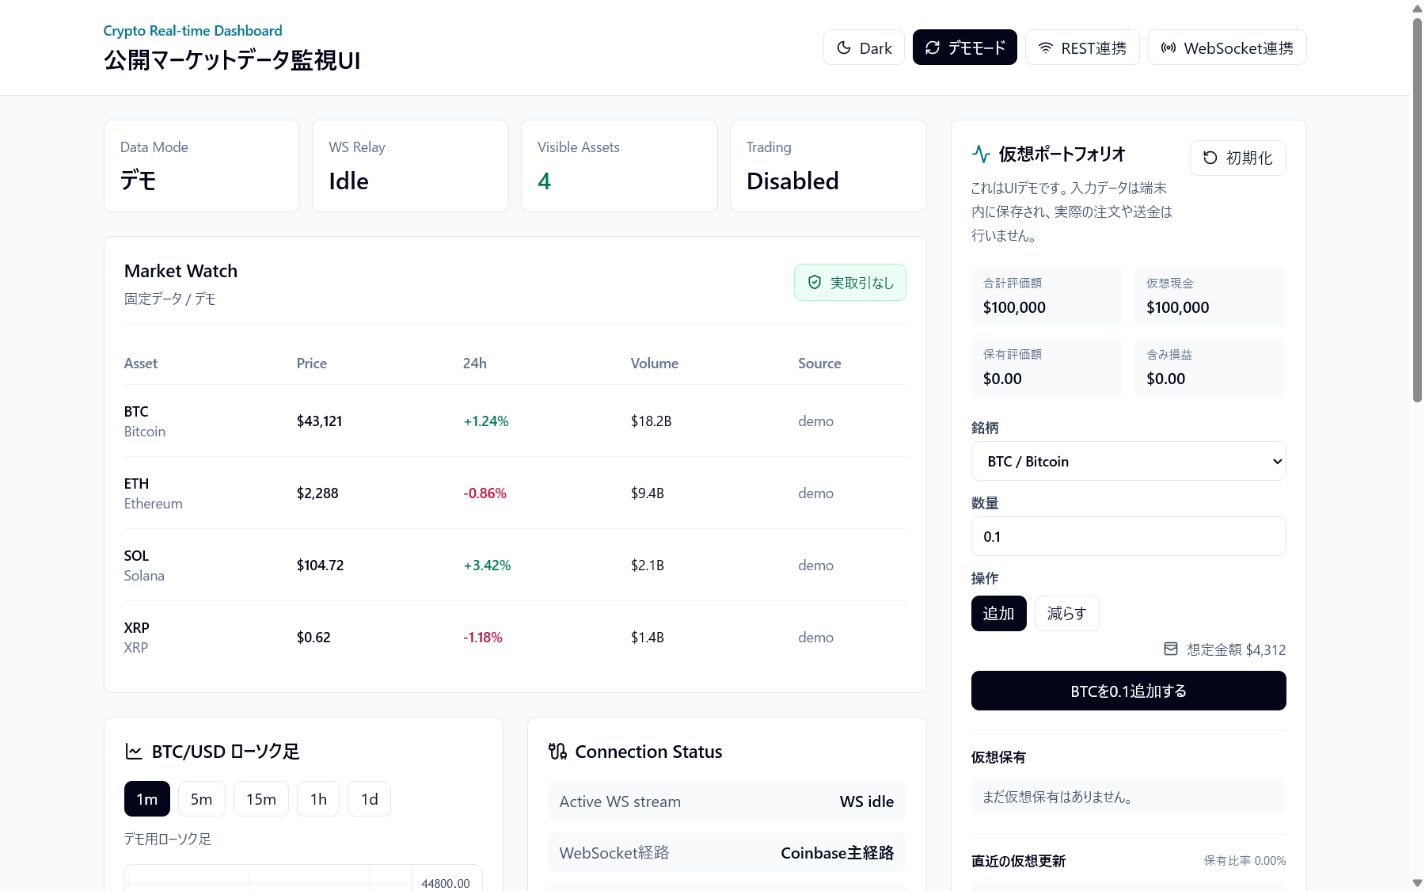
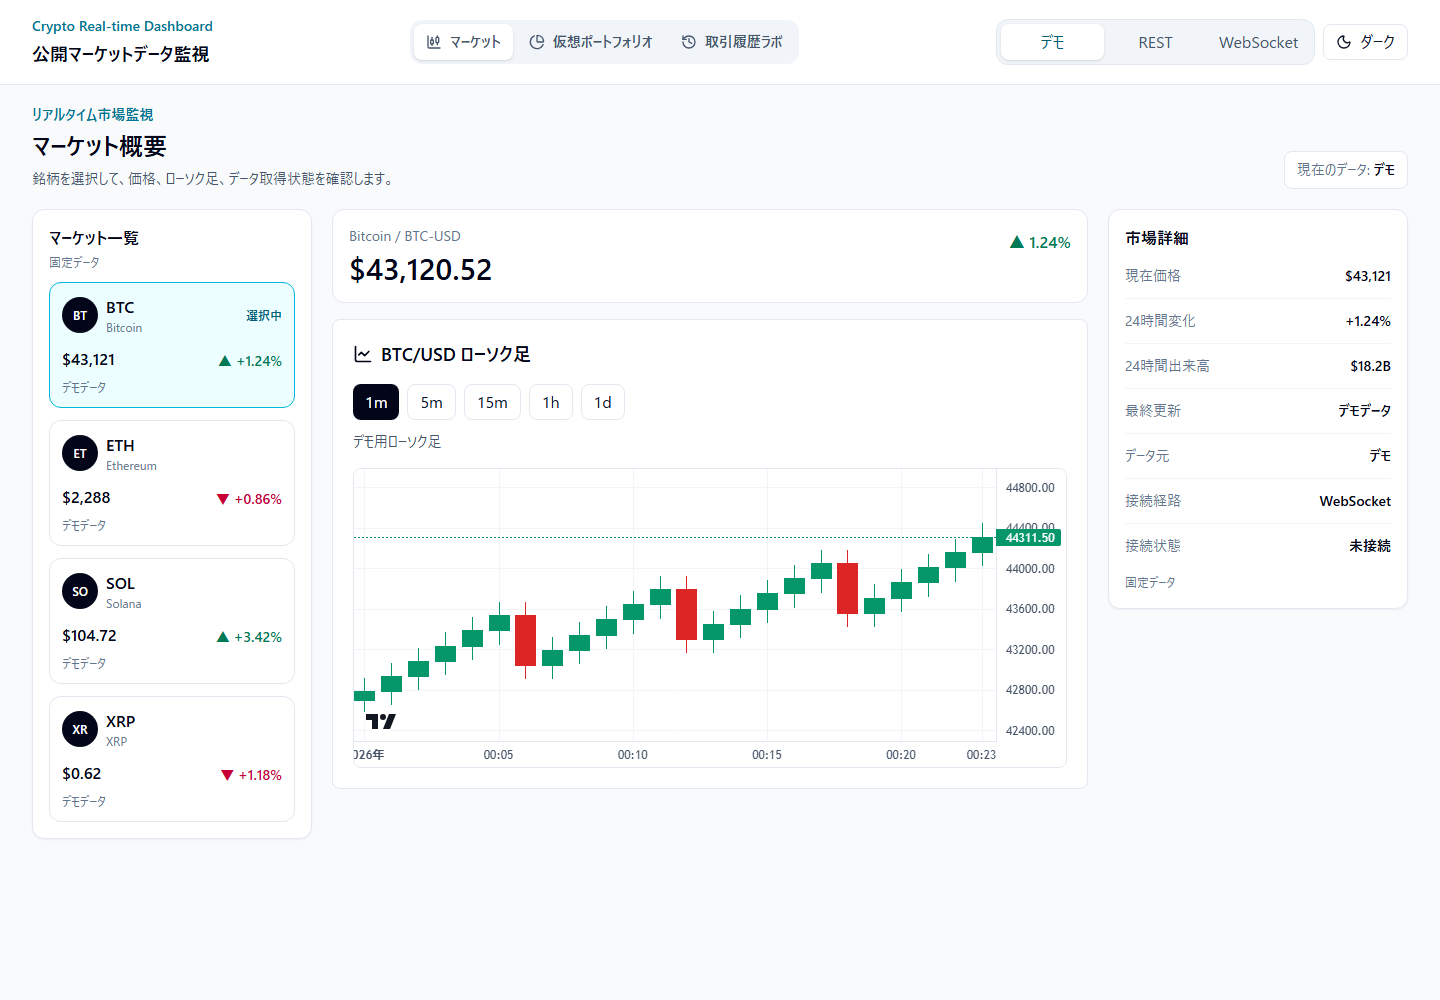
公開文書と画面画像を新しい構成へ更新する

diff --git a/README.md b/README.md
@@ -14,7 +14,7 @@ Crypto Real-time Dashboardは、暗号資産の公開マーケットデータを
 
 ## 短時間確認ガイド
 
-30秒で見る場合は、公開URLを開き、デモモードのMarket Watch、ローソク足チャート、10万件の仮想取引履歴、仮想ポートフォリオを確認してください。初期表示では外部APIを呼びません。
+30秒で見る場合は、公開URLを開き、マーケット画面で銘柄を切り替えてローソク足チャートを確認してください。次に下部ナビゲーションまたは上部ナビゲーションから、仮想ポートフォリオと取引履歴ラボへ移動できます。初期表示では外部APIを呼びません。
 
 REST連携やWebSocket連携を選ぶと、BFF Worker経由でCoinGecko、Binance、Coinbaseの公開マーケットデータへ接続します。外部APIやWebSocketは提供元とネットワーク状態に依存するため、長時間稼働やSLAは主張しません。
 
@@ -22,8 +22,8 @@ REST連携やWebSocket連携を選ぶと、BFF Worker経由でCoinGecko、Binanc
 
 ## 主な流れ
 
-- デモモードで、外部APIを呼ばずにダッシュボードを表示する。
-- Market Watchで価格、変化率、出来高、接続状態を確認する。
+- デモモードで、外部APIを呼ばずに3つの画面を表示する。
+- マーケット画面でBTC、ETH、SOL、XRPを選び、価格、変化率、出来高、データ鮮度、接続状態を確認する。
 - REST連携で、BFF Worker経由のREST API取得に切り替える。
 - WebSocket連携で、WebSocket中継による価格更新に切り替える。
 - WebSocket連携はCoinbaseを主経路とし、接続できない場合はBinanceへ切り替える。
@@ -42,15 +42,17 @@ REST連携やWebSocket連携を選ぶと、BFF Worker経由でCoinGecko、Binanc
 
 ## 画面
 
-![UI挙動紹介](docs/images/crypto-realtime-dashboard-demo.gif)
+- `/market`：マーケット一覧、選択銘柄の価格、ローソク足チャート、市場詳細を表示します。選択銘柄と時間足はURLへ保存されます。
+- `/portfolio`：仮想保有の追加と減少、評価額、含み損益を表示します。
+- `/history`：10万件の仮想取引履歴を検索、絞り込み、並べ替え、仮想スクロールで表示します。
 
-このGIFは、UIの操作導線を短く見せるための紹介素材です。外部APIの長時間稼働、呼び出し回数制限で429が出ること、投資判断の有効性を証明するものではありません。
+デスクトップではマーケット一覧、チャート、市場詳細を3列で表示します。モバイルではチャートを先に表示し、マーケット一覧を横スクロール、主要画面の移動を下部ナビゲーションで行います。
 
-![ダッシュボード概要](docs/images/dashboard-overview.png)
+![マーケット画面](docs/images/dashboard-overview.png)
 
-![仮想ポートフォリオ](docs/images/virtual-portfolio.png)
+![仮想ポートフォリオ画面](docs/images/virtual-portfolio.png)
 
-![モバイル表示](docs/images/mobile-dashboard.png)
+![モバイルのマーケット画面](docs/images/mobile-dashboard.png)
 
 ## ドキュメント
 
@@ -64,8 +66,8 @@ REST連携やWebSocket連携を選ぶと、BFF Worker経由でCoinGecko、Binanc
 
 主な検証記録は [docs/evidence/INDEX.md](docs/evidence/INDEX.md) から確認できます。
 
-- `pnpm check`: Biome、typecheck、Node.jsスクリプトテスト、Vitest計192件、buildが成功
-- Playwright E2E: デモ操作、ローソク足canvas、仮想ポートフォリオのクリック・Enter操作、localStorage制限時の操作、Coinbase疑似失敗時のBinance切り替え、375px・390px・768px表示を含む13件が成功
+- `pnpm check`: Biome、typecheck、検証スクリプトとVitestの計214件、buildが成功
+- Playwright E2E: 3画面の移動、銘柄のクリック・キーボード操作、ローソク足canvas、仮想ポートフォリオ、10万件テーブル、Coinbase疑似失敗時のBinance切り替え、375px・390px・768px表示を含む15件が成功
 - 公開環境E2E: 仮想ポートフォリオのクリック・Enter・減少・再読み込み保持、操作状態、390px表示を含む5件が成功
 - 公開環境API確認: トップ画面がHTTP 200を返し、Coinbaseローソク足の`1m`、`5m`、`15m`、`1h`、`1d`で各120本のOHLCVと時刻間隔を確認
 - Lighthouse: 2026-05-07時点の手元計測を参考値として確認

diff --git a/docs/evidence/INDEX.md b/docs/evidence/INDEX.md
@@ -20,8 +20,8 @@ Crypto Real-time Dashboardの検証記録をまとめます。各記録は、そ
 
 - 方法: `pnpm check`を実行し、Biome、TypeScript、Node.jsスクリプトテスト、Vitest、production buildを確認。
 - 対象: shared-types、BFF、Web、ローソク足取得スクリプト。
-- 結果: Biomeはshared-types 4ファイル、BFF 32ファイル、Web 71ファイルを通過。Node.jsスクリプトテスト4件、shared-types 7件、BFF 72件、Web 109件の計192件が通過し、typecheckとbuildも通過。
-- 方法: `pnpm e2e`を実行し、デモ操作、ローソク足canvas、WebSocket予備接続、375px・390px・768px、desktop表示後の390pxリサイズを確認。
+- 結果: Biomeはshared-types 4ファイル、BFF 32ファイル、Web 81ファイルを通過。Node.jsスクリプトテスト8件、shared-types 7件、BFF 72件、Web 127件の計214件が通過し、typecheckとbuildも通過。
+- 方法: `pnpm e2e`を実行し、3画面の移動、銘柄のクリック・矢印キー操作、ローソク足canvas、WebSocket予備接続、375px・390px・768px、desktop表示後の390pxリサイズを確認。
 - 対象: Playwright E2E 10件。
 - 結果: 10件すべて通過。
 - 方法: OSV-Scanner 2.4.0で`pnpm-lock.yaml`を検査。
@@ -45,7 +45,7 @@ Crypto Real-time Dashboardの検証記録をまとめます。各記録は、そ
 |---|---|---|
 | `pnpm check` | 通過 | lint、typecheck、test、build |
 | Vitest | 通過 | shared-types、BFF、Webの単体・統合テスト |
-| Playwright E2E | 13件通過 | デモ操作、ローソク足canvas、仮想ポートフォリオのクリック・Enter操作、localStorage制限時の操作、Coinbase疑似失敗時のBinance切り替え、レスポンシブ表示 |
+| Playwright E2E | 15件通過 | 3画面の移動、銘柄選択、ローソク足canvas、仮想ポートフォリオ、10万件テーブル、Coinbase疑似失敗時のBinance切り替え、レスポンシブ表示 |
 | 公開環境E2E | 5件通過 | クリック・Enter・減少・再読み込み保持、操作状態、390px表示 |
 | 公開環境確認 | 通過 | トップ画面のHTTP 200、Coinbaseローソク足5種類の各120本、OHLCV、時刻順序、足間隔 |
 | WebSocket自動切り替え | 通過 | 疑似接続でCoinbaseからBinanceへ切り替え、30秒後のCoinbase有効ticker受信後に復帰 |
